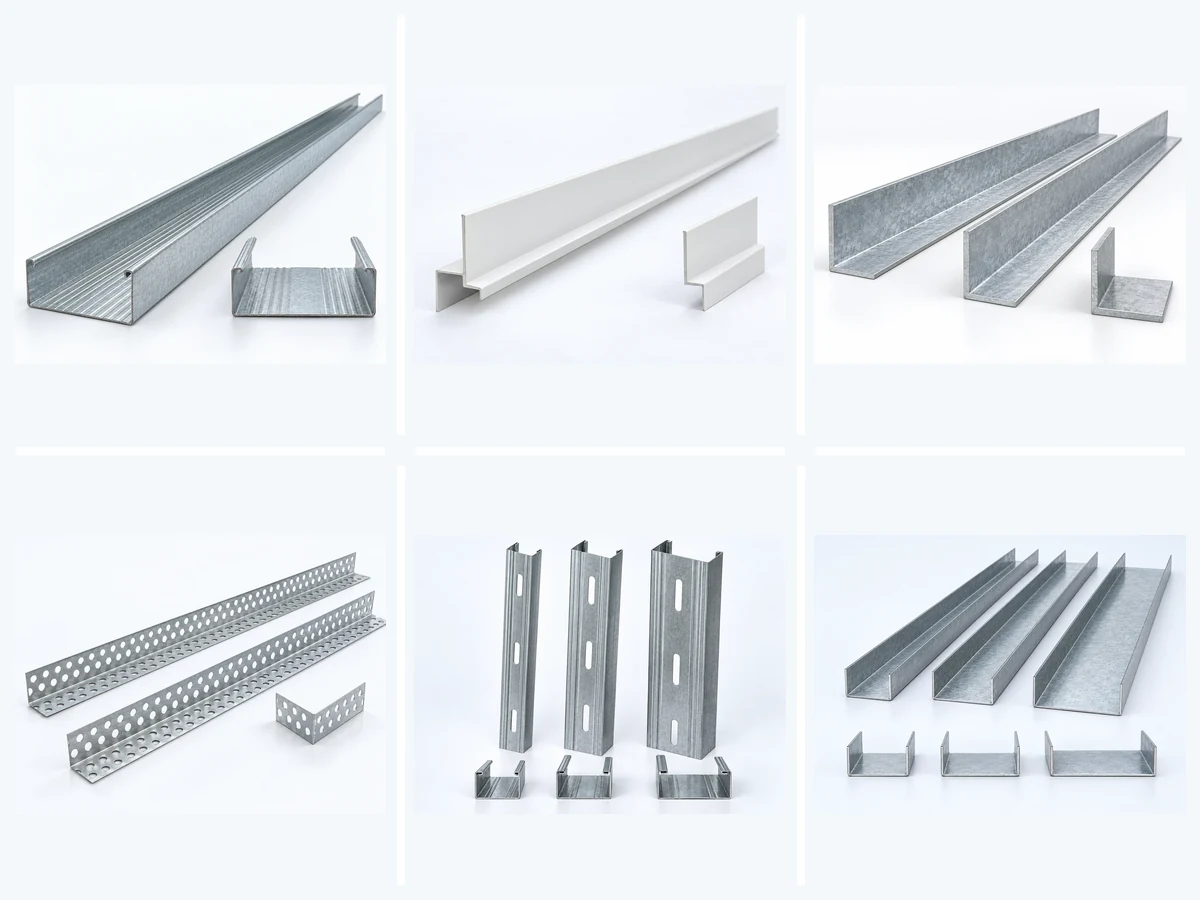
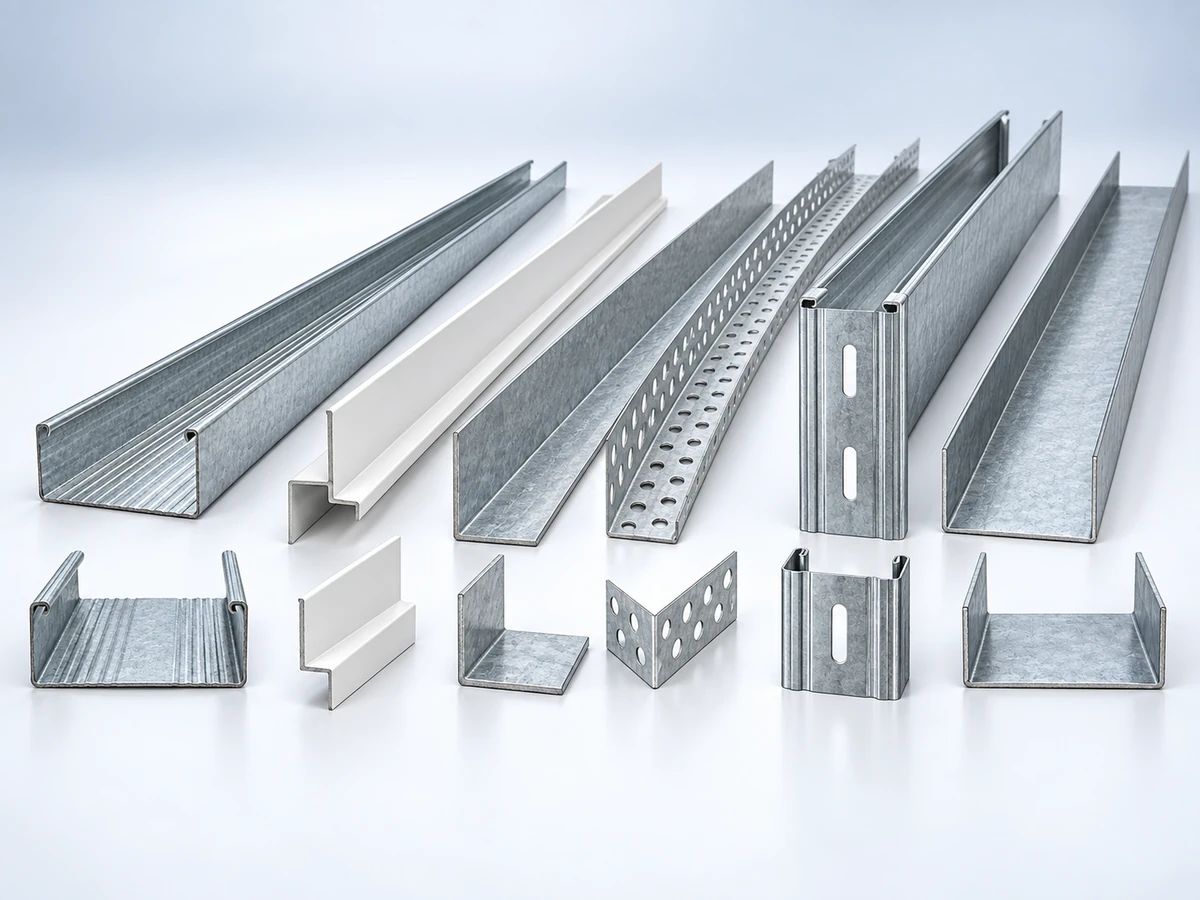
fix: enforce single product hero images sitewide

diff --git a/lib/product-details.ts b/lib/product-details.ts
@@ -26,7 +26,7 @@ const drywallDetails: Record<string, Omit<ProductDetail, "name" | "slug">> = {
   },
   "placas-de-drywall": {
     description: "Placas para paredes, forros e revestimentos internos, escolhidas conforme umidade, resistência ao fogo e exigência mecânica.",
-    gallery: [media("/images/produto-drywall-cliente.webp", "Placas de drywall ST, RU e RF apoiadas em perfis metálicos"), media("/images/produto-placa-performa.webp", "Placas de drywall de alta resistência da linha Performa")],
+    gallery: [media("/images/produto-drywall-cliente.webp", "Placas de drywall ST, RU e RF apoiadas em perfis metálicos")],
     options: ["ST para áreas secas", "RU para ambientes sujeitos à umidade", "RF para aplicações com resistência ao fogo", "Performa ST e RU para maior resistência mecânica e conforto acústico"],
     applications: ["Paredes e revestimentos internos", "Forros", "Ambientes úmidos conforme especificação", "Áreas com exigências mecânicas ou de fogo"],
     variants: [
@@ -47,7 +47,7 @@ const drywallDetails: Record<string, Omit<ProductDetail, "name" | "slug">> = {
   },
   perfis: {
     description: "Perfis galvanizados para estruturar paredes, forros e arremates em sistemas de construção a seco.",
-    gallery: [media("/images/produto-perfis.webp", "Conjunto de perfis galvanizados para drywall"), media("/images/produto-sistema-f530.webp", "Composição de perfis e acessórios do sistema para forro F530")],
+    gallery: [media("/images/produto-perfis.webp", "Família de perfis galvanizados e tabica branca para sistemas de drywall")],
     options: ["Perfis para forro F530", "Guias e montantes para paredes", "Tabicas e cantoneiras para arremates"],
     applications: ["Estruturas de paredes", "Forros de drywall", "Encontros, bordas e acabamentos"],
     variants: [
@@ -61,7 +61,7 @@ const drywallDetails: Record<string, Omit<ProductDetail, "name" | "slug">> = {
   },
   "complementos-de-instalacao": {
     description: "Fixadores, acessórios de suspensão, fitas e complementos organizados por etapa para facilitar a conferência da lista.",
-    gallery: [media("/images/produto-complementos.webp", "Fitas, parafusos, buchas e acessórios para instalação de drywall"), media("/images/produto-sistema-f530.webp", "Sistema F530 com perfis e acessórios de suspensão")],
+    gallery: [media("/images/produto-complementos.webp", "Fitas, parafusos, buchas e acessórios para instalação de drywall")],
     options: ["Fixação", "Suspensão F530", "Juntas e cantos", "Fincapinos"],
     applications: ["Fixação de placas e perfis", "Suspensão e nivelamento de forros", "Tratamento de juntas e cantos", "Fixação com pistola fincapinos"],
     variants: [

diff --git a/tests/site-data.test.ts b/tests/site-data.test.ts
@@ -44,6 +44,7 @@ test("every material item has a stable product route and detail page data", () =
       assert.ok(slug.length > 1);
       assert.equal(detail?.name, item);
       assert.ok((detail?.options.length ?? 0) >= 3);
+      assert.equal(detail?.gallery.length, 1, `${category.name} / ${item} must use a single hero image`);
       assert.match(detail?.gallery[0].src ?? "", /^\/images\/.+\.(?:webp|jpg|png)$/);
       assert.ok((detail?.gallery[0].alt.length ?? 0) > 15);
     }
